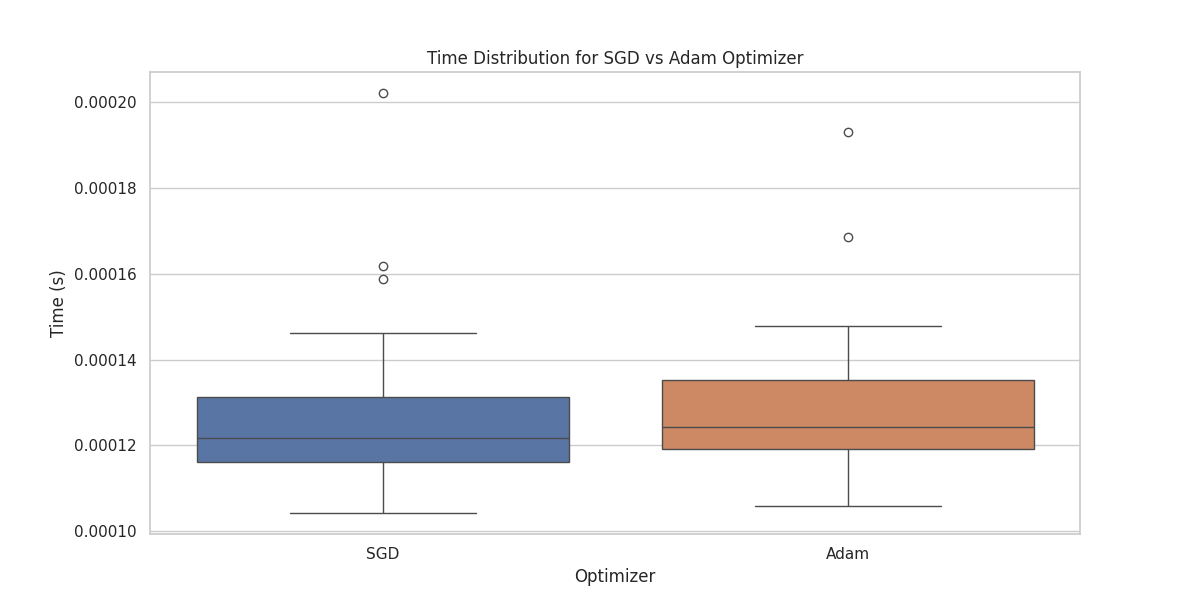
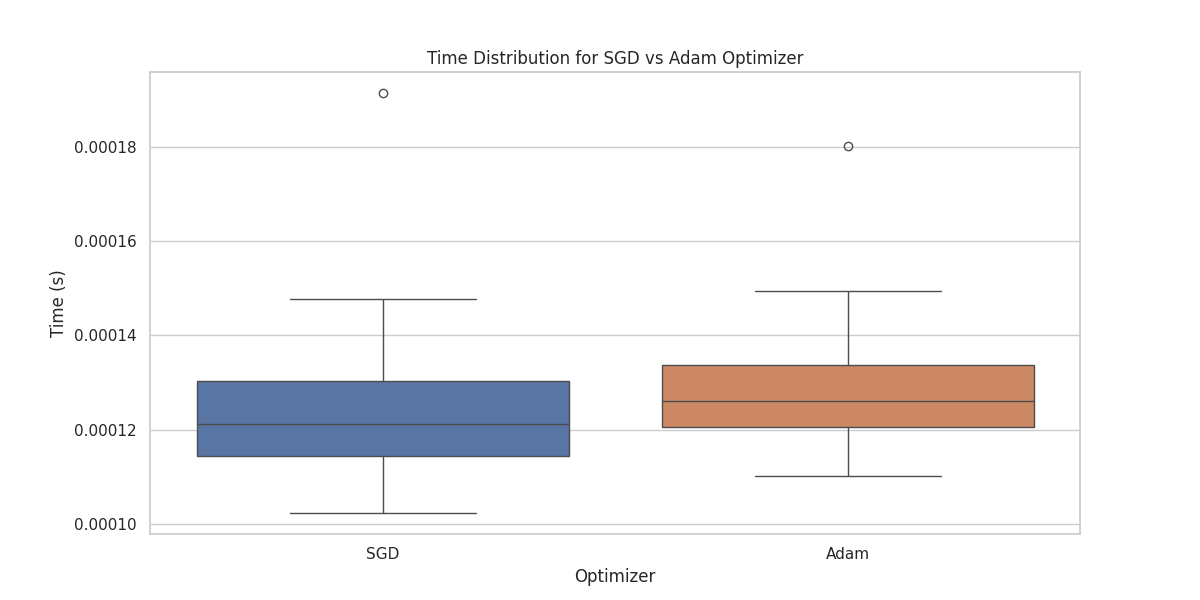
update readme

diff --git a/README.md b/README.md
@@ -38,6 +38,7 @@ This experiment aimed to compare the computational efficiency of two popular opt
 
 - **Box Plot**: Showcased the distribution of times for each optimizer, highlighting central tendency and variability.
 - **Bootstrap Distribution**: A histogram was created to visualize the distribution of mean times from bootstrap resampling, allowing for comparison between SGD and Adam.
+- **Time Diff Plot**: A histogram shows the distribution of SGD time - Adam time, which allows a more strightforward way to compare the difference between SGD and Adam.
 
 ## Results
 - **Time Diff Plot**: 
@@ -48,7 +49,7 @@ This experiment aimed to compare the computational efficiency of two popular opt
 - **Box Plot**: 
   ![Boxplot](nanoGPT/boxplot.png "Boxplot Results")
   The box plot indicated that:
-  - SGD and Adam have similar variety. 
+  - SGD and Adam have similar variety in general. 
 
 - **Bootstrap Analysis**: 
   ![Bootstrap Mean Distributions](nanoGPT/bootstrap.png "Bootstrap Results")
@@ -57,9 +58,9 @@ This experiment aimed to compare the computational efficiency of two popular opt
 
 - **Time**
     ```
-    sgd_times: [0.00018596649169921875, 8.845329284667969e-05, 8.678436279296875e-05, 4.673004150390625e-05, 3.8623809814453125e-05, 4.315376281738281e-05, 4.38690185546875e-05, 3.719329833984375e-05, 4.1961669921875e-05, 4.1961669921875e-05, 4.3392181396484375e-05, 4.2438507080078125e-05, 3.647804260253906e-05, 4.267692565917969e-05, 3.647804260253906e-05, 3.5762786865234375e-05, 3.552436828613281e-05, 3.528594970703125e-05, 3.504753112792969e-05, 4.267692565917969e-05, 4.57763671875e-05, 4.458427429199219e-05, 3.647804260253906e-05, 3.600120544433594e-05, 3.528594970703125e-05, 3.62396240234375e-05, 3.62396240234375e-05, 4.291534423828125e-05, 3.5762786865234375e-05, 4.220008850097656e-05, 3.5762786865234375e-05, 3.62396240234375e-05]
-    
-    adam_times: [8.463859558105469e-05, 6.556510925292969e-05, 5.14984130859375e-05, 4.9591064453125e-05, 5.626678466796875e-05, 9.489059448242188e-05, 4.76837158203125e-05, 4.267692565917969e-05, 4.363059997558594e-05, 4.2438507080078125e-05, 5.221366882324219e-05, 4.100799560546875e-05, 4.0531158447265625e-05, 3.719329833984375e-05, 3.7670135498046875e-05, 4.5299530029296875e-05, 4.6253204345703125e-05, 5.125999450683594e-05, 3.8623809814453125e-05, 3.6716461181640625e-05, 4.1484832763671875e-05, 8.58306884765625e-05, 5.555152893066406e-05, 3.7670135498046875e-05, 3.719329833984375e-05, 3.695487976074219e-05, 4.553794860839844e-05, 4.458427429199219e-05, 4.4345855712890625e-05, 4.267692565917969e-05, 3.981590270996094e-05, 4.506111145019531e-05]
+    sgd_times: [0.0001914501190185547, 0.00014781951904296875, 0.00013375282287597656, 0.00013518333435058594, 0.00011849403381347656, 0.00014066696166992188, 0.0001246929168701172, 0.00011920928955078125, 0.00011777877807617188, 0.00012993812561035156, 0.00011849403381347656, 0.0001266002655029297, 0.00011444091796875, 0.00011920928955078125, 0.0001232624053955078, 0.00013113021850585938, 0.00012969970703125, 0.0001277923583984375, 0.000125885009765625, 0.00011420249938964844, 0.00011563301086425781, 0.00011277198791503906, 0.00010418891906738281, 0.00011444091796875, 0.00011777877807617188, 0.00013685226440429688, 0.00012302398681640625, 0.0001430511474609375, 0.00010323524475097656, 0.00010228157043457031, 0.00010228157043457031, 0.000102996826171875]
+
+    adam_times: [0.00018024444580078125, 0.00013327598571777344, 0.0001266002655029297, 0.0001327991485595703, 0.0001327991485595703, 0.00013494491577148438, 0.00013184547424316406, 0.00013518333435058594, 0.00013065338134765625, 0.00013828277587890625, 0.00012755393981933594, 0.00012993812561035156, 0.00012063980102539062, 0.00011754035949707031, 0.00013780593872070312, 0.00011754035949707031, 0.0001251697540283203, 0.00011515617370605469, 0.00012350082397460938, 0.00011134147644042969, 0.0001494884490966797, 0.00013780593872070312, 0.00012540817260742188, 0.0001251697540283203, 0.00011873245239257812, 0.00014066696166992188, 0.00011014938354492188, 0.00012254714965820312, 0.00012087821960449219, 0.00012063980102539062, 0.00012087821960449219, 0.00011920928955078125]
     ```
 
 ## Conclusion
